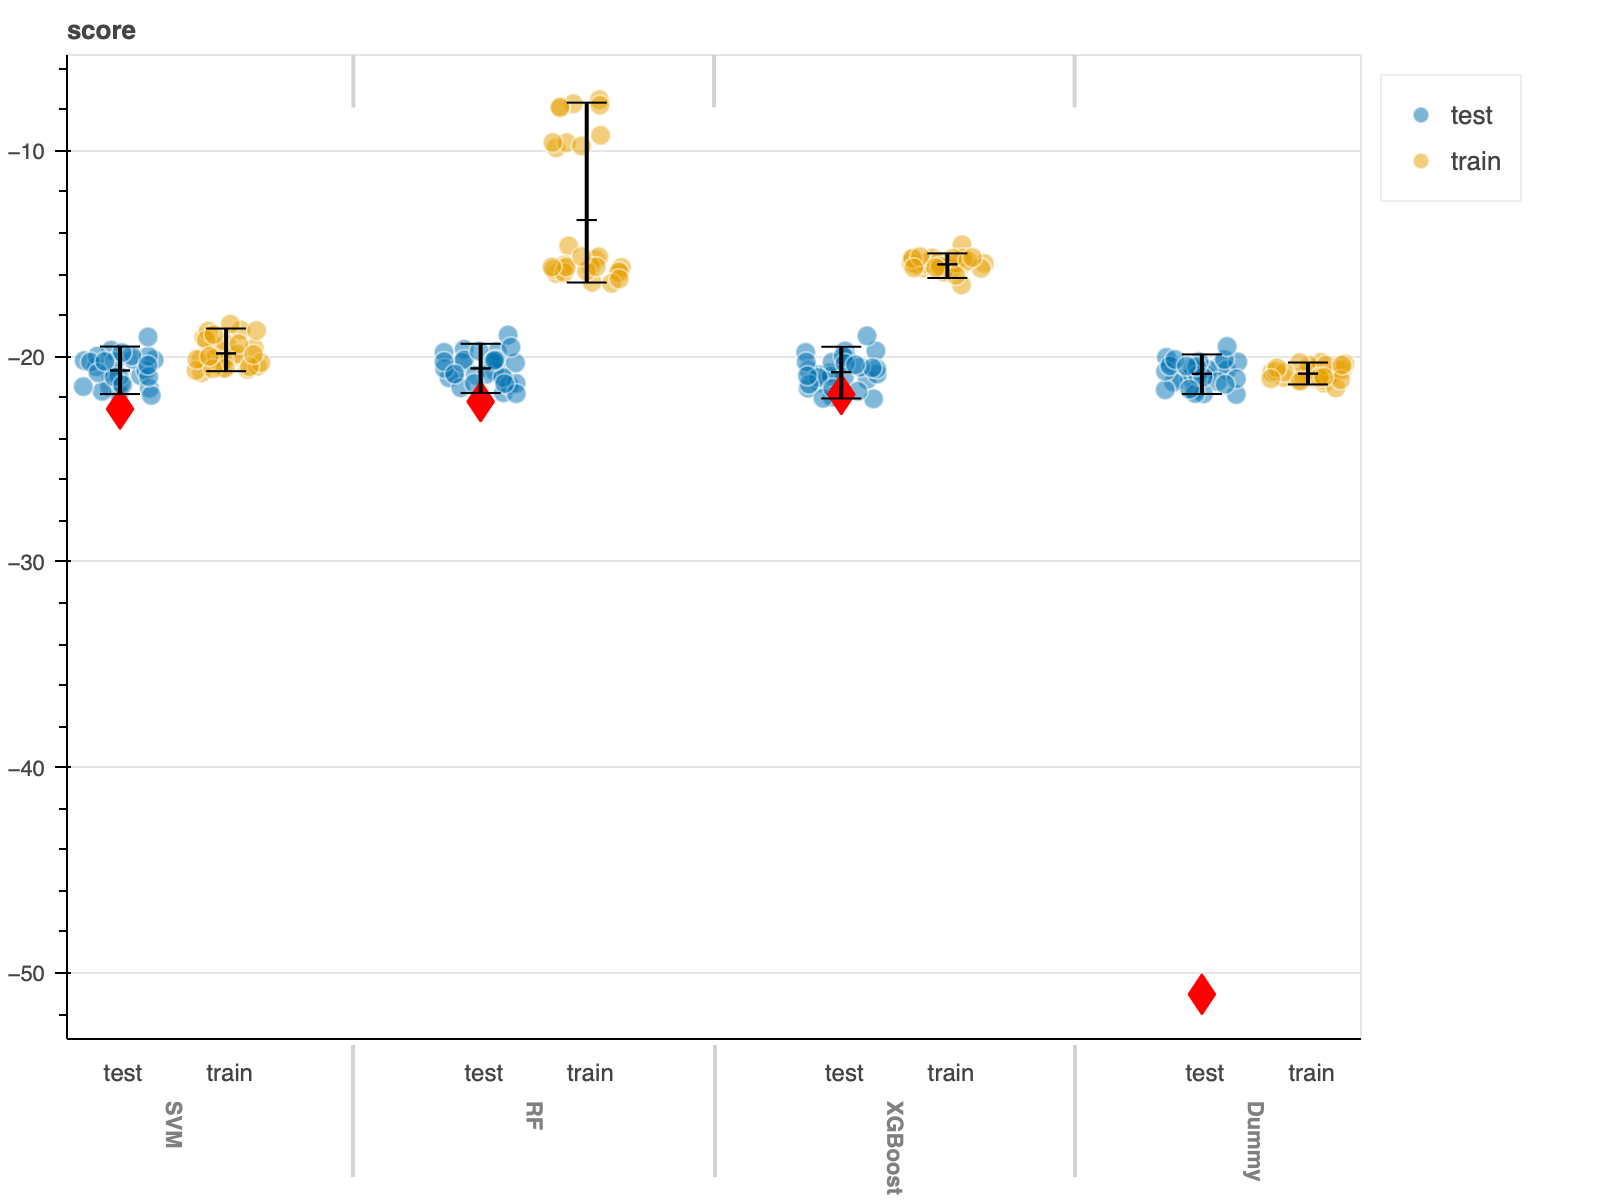
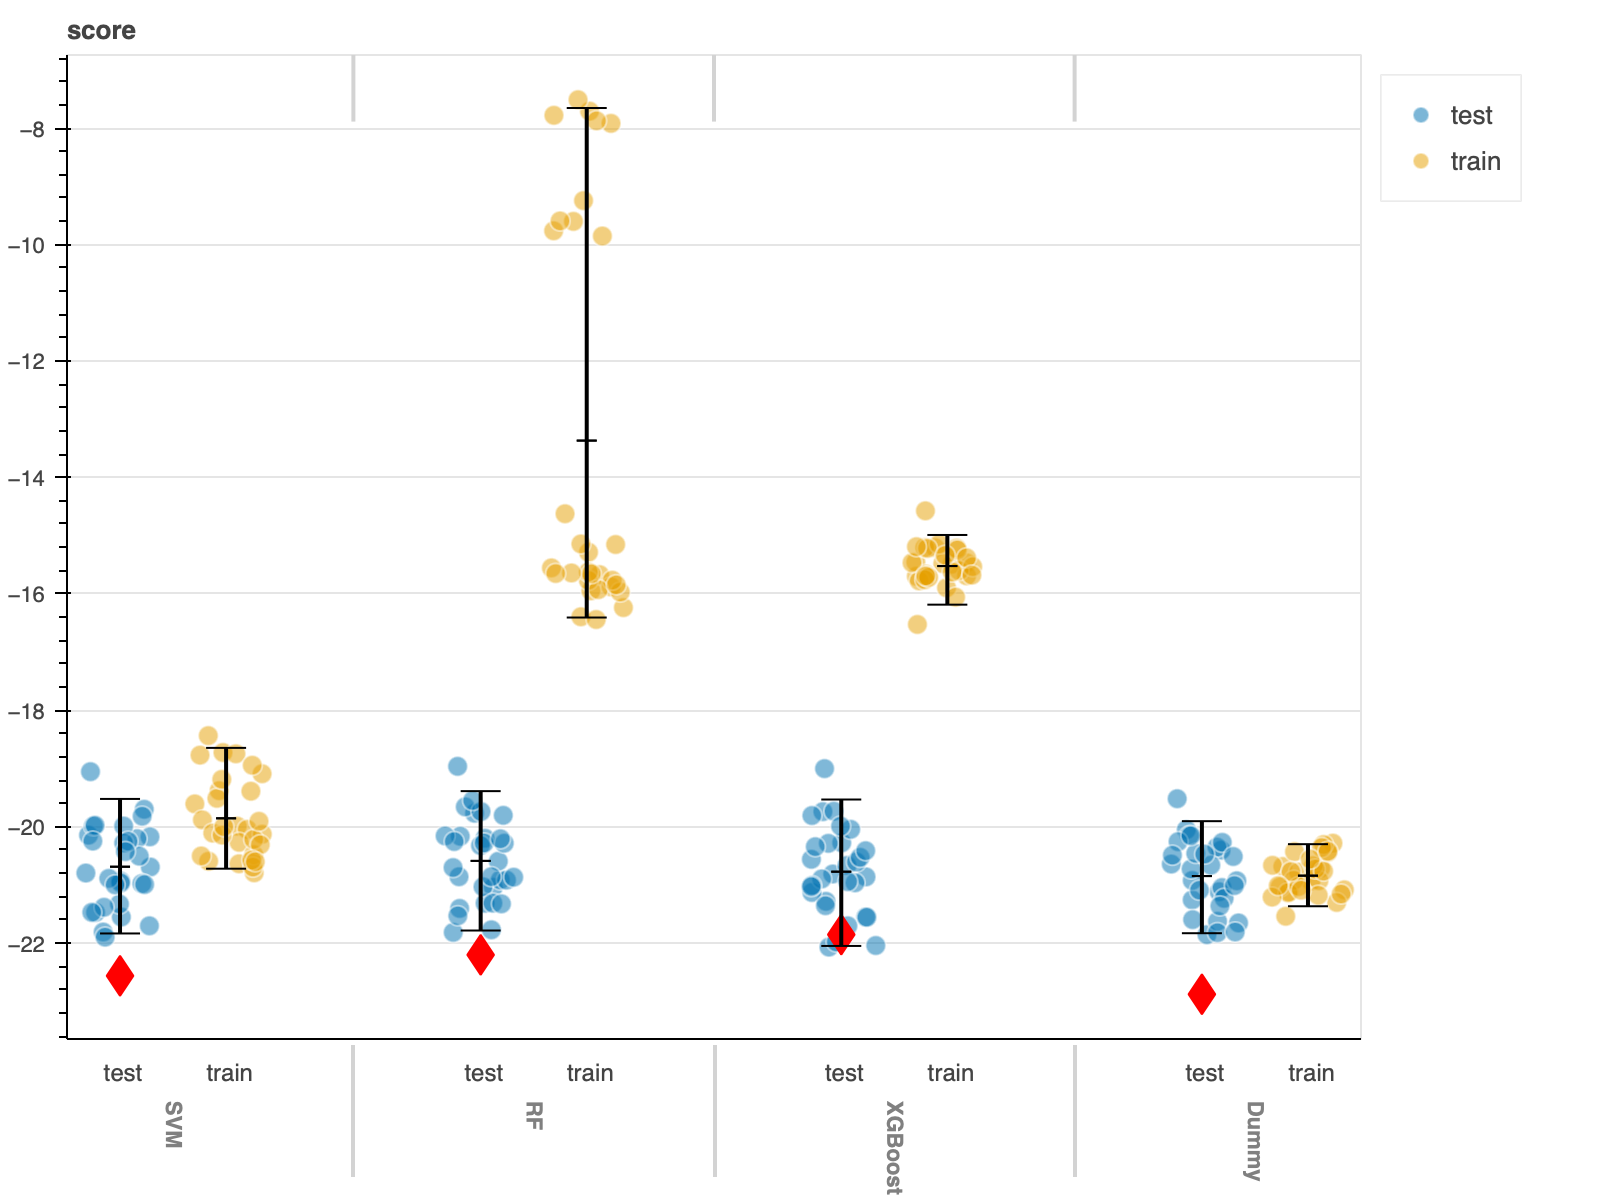
imgs holdouts corrected

diff --git a/doc/post.md b/doc/post.md
@@ -15,7 +15,7 @@ Como podemos observar, no parece haber una mejora significativa de ningun modelo
 
 Por otro lado, también es importante fijarse si sus predicciones son confiables. Para esto, usamos cada modelo para predecir con valores nuevos:
 
-![image](../src/img/Schaefer_IST_crystallised_holdout.png)
+![image](../src/img/Schaefer_IST_crystallized_holdout.png)
 
 Este gráfico muestra el mismo plot score pero con el score de holdout set, que representan el 10% restante del dataset original. Se puede notar ahora que los modelos entrenados consiguieron valores muy parecidos a la media de sus anteriores predicciones en test, mientras que Dummy empeoró sus resultados con mucha diferencia de su media. Una vez más, el mejor score lo tuvo el SVM.
 
@@ -78,7 +78,7 @@ Nuevamente podemos observar como, al igual que pasaba con la parcelación Schaef
 Veamos si sucede lo mismo con los valores del set de validación:
 
 Primero mostramos los resultados para **Crystallized Intelligence**.
-![image](../src/img/Shen_IST_crystallised_holdout.png)
+![image](../src/img/Shen_IST_crystallized_holdout.png)
 
 Luego, para **Fluid Intelligence**.
 ![image](../src/img/Shen_IST_fluid_holdout.png)
